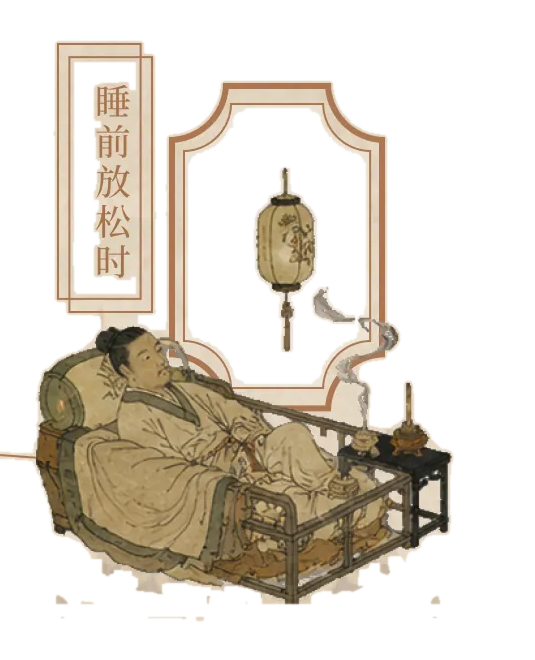
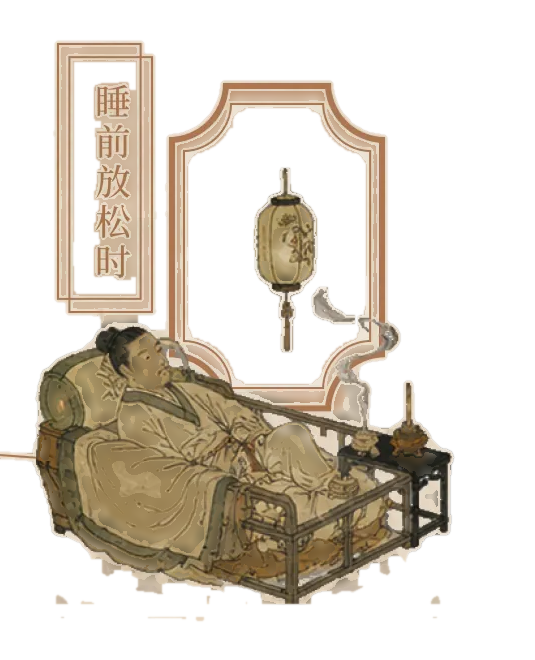
style: 使用场景选中态对齐设计稿——图整体提亮(brightness 1.2) + 框内叠白 50%
- 素材边缘的纸色像素换成邻近实色，提亮后不再浮白边
- 白板固定 50% 透明度

diff --git a/projects/songyun/index.html b/projects/songyun/index.html
@@ -93,7 +93,7 @@ body{font-family:"Songti SC","STSong","Noto Serif SC",serif;-webkit-font-smoothi
 .scene-card.is-on .scene-card__paper{opacity:.5}
 .scene-card:hover .scene-card__art,
 .scene-card.is-on .scene-card__art{
-  filter:brightness(var(--scene-lit,1.3));
+  filter:brightness(var(--scene-lit,1.2));
 }
 
 /* 香料配方：悬停香气出详情（不可点击） */

diff --git a/projects/songyun/tools/build_scene.py b/projects/songyun/tools/build_scene.py
@@ -35,6 +35,23 @@ def morph(a, r, kind='close'):
     return np.asarray(im) > 127
 
 
+def box_blur(a, r):
+    a = a.astype(np.float32)
+    k = 2 * r + 1
+    for _ in range(3):
+        for axis in (0, 1):
+            pad = [(0, 0)] * a.ndim
+            pad[axis] = (r, r)
+            ap = np.pad(a, pad, mode='edge')
+            c = np.cumsum(ap, axis=axis)
+            zero_shape = list(c.shape); zero_shape[axis] = 1
+            c = np.concatenate([np.zeros(zero_shape, np.float32), c], axis=axis)
+            hi = [slice(None)] * a.ndim; hi[axis] = slice(k, None)
+            lo = [slice(None)] * a.ndim; lo[axis] = slice(0, -k)
+            a = (c[tuple(hi)] - c[tuple(lo)]) / k
+    return a
+
+
 def dilate(a, r):
     return np.asarray(Image.fromarray((a * 255).astype(np.uint8)).filter(ImageFilter.MaxFilter(2 * r + 1))) > 127
 
@@ -155,6 +172,18 @@ for i, c in enumerate(CARDS, 1):
         ins[yy0:yy1, :] = False
 
     alpha = np.asarray(Image.fromarray((fg * 255).astype(np.uint8)).filter(ImageFilter.GaussianBlur(0.8))).astype(np.float32)
+
+    # 边缘那一两像素原来的颜色是纸色，提亮后会浮出一圈白边；
+    # 把「明显是纸色」的像素换成邻近实色的颜色（alpha 不变，默认态看不出差别）
+    core = fg & (ds > 10)
+    if core.any():
+        w = core.astype(np.float32)
+        num = box_blur(roi * w[..., None], 5)
+        den = box_blur(w, 5)
+        ok = (~core) & (den > 0.06)
+        fill = num / np.maximum(den, 1e-3)[..., None]
+        roi = np.where(ok[..., None], fill, roi)
+
     Image.fromarray(np.dstack([roi, alpha]).astype(np.uint8), 'RGBA').save(
         f'img/scene-card-{i}.webp', 'WEBP', lossless=True, quality=100, method=6)
 
